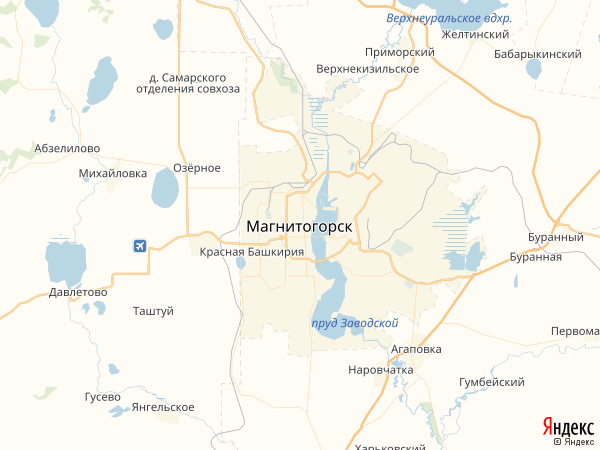
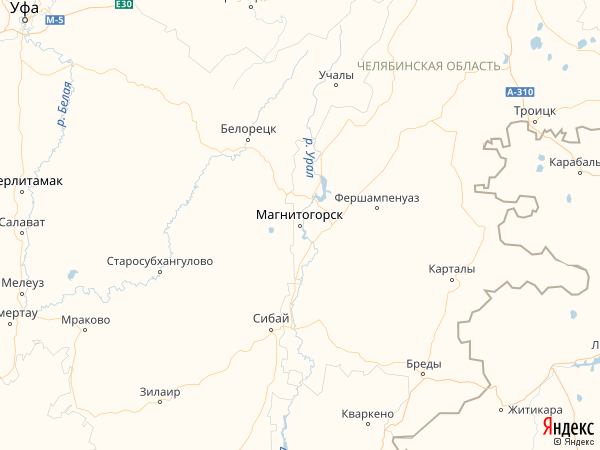
Part 2

diff --git a/Big_task.py b/Big_task.py
@@ -2,6 +2,7 @@ import requests
 from PyQt5.QtWidgets import QMainWindow, QApplication, QWidget
 from PyQt5 import uic
 from PyQt5.QtGui import QPixmap
+from PyQt5.QtCore import Qt
 import sys
 
 map_params = {'ll': '58.980282,53.407158',
@@ -10,26 +11,42 @@ geocoder_api_server = "http://geocode-maps.yandex.ru/1.x/"
 map_api_server = "http://static-maps.yandex.ru/1.x/"
 
 
-response = requests.get(map_api_server, params=map_params)
-map_file = "map.png"
+def change_picture(map_params):
+    response = requests.get(map_api_server, params=map_params)
+    map_file = "map.png"
 
-try:
-    with open(map_file, "wb") as file:
-        file.write(response.content)
-except IOError as ex:
-    print("Ошибка записи временного файла:", ex)
-    sys.exit(2)
+    try:
+        with open(map_file, "wb") as file:
+            file.write(response.content)
+    except IOError as ex:
+        print("Ошибка записи временного файла:", ex)
+        sys.exit(2)
 
 
 class BigTask(QMainWindow):
     def __init__(self):
         super().__init__()
         uic.loadUi('Big_task.ui', self)
+        self.map_params = map_params
+        self.draw()
 
+    def draw(self):
         self.picture = QPixmap('map.png')
         self.lbl.setPixmap(self.picture)
         self.lbl.adjustSize()
         self.resize(self.picture.width() + 40, self.picture.height() + 40)
+
+    def keyPressEvent(self, event):
+        if event.key() == Qt.Key_PageUp:
+            self.map_params['z'] = self.map_params['z'] - 1
+            if self.map_params['z'] < 0:
+                self.map_params['z'] = 0
+        if event.key() == Qt.Key_PageDown:
+            self.map_params['z'] = self.map_params['z'] + 1
+            if self.map_params['z'] > 17:
+                self.map_params['z'] = 17
+        change_picture(self.map_params)
+        self.draw()
 
 
 if __name__ == '__main__':
